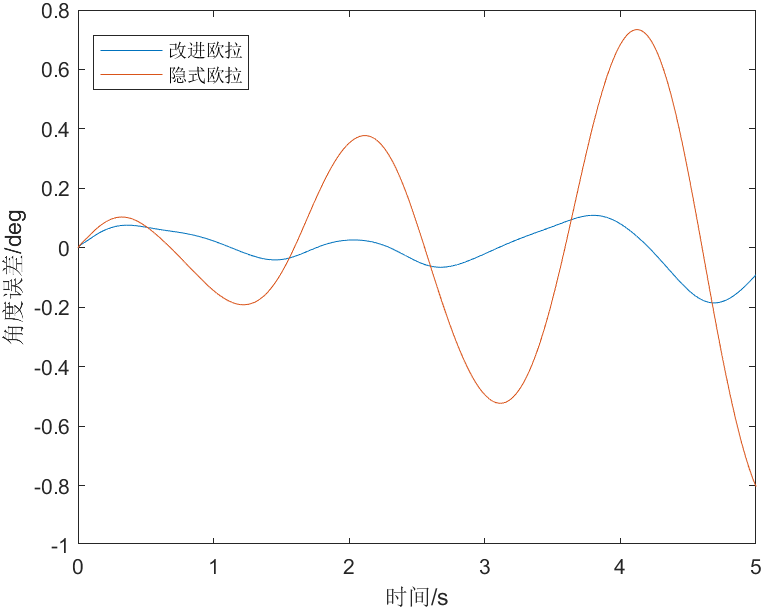
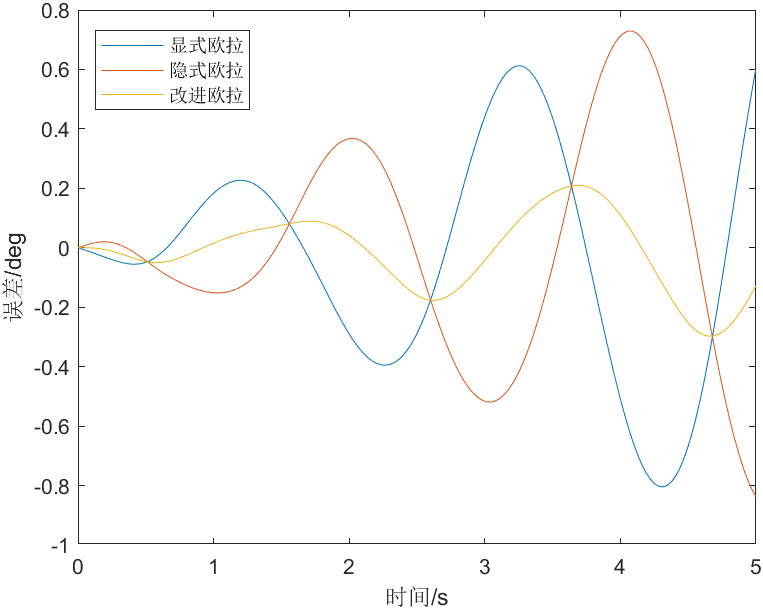
微调

diff --git a/Pendulum/src/PendulumODE.m b/Pendulum/src/PendulumODE.m
@@ -18,9 +18,9 @@ end
 
 %% 隐式欧拉
 for i = 2:n
-    a(i) = -9.8 * sin(u(i - 1));
-    v(i) = v(i - 1) + h * a(i);
-    u(i) = u(i - 1) + h * v(i);
+    a(i-1) = -9.8 * sin(u(i - 1));
+    v(i) = v(i - 1) + h * a(i-1);
+    u(i) = u(i - 1) + h * v(i-1);
 
     for j = 1:15
         a(i) = -9.8 * sin(u(i));
